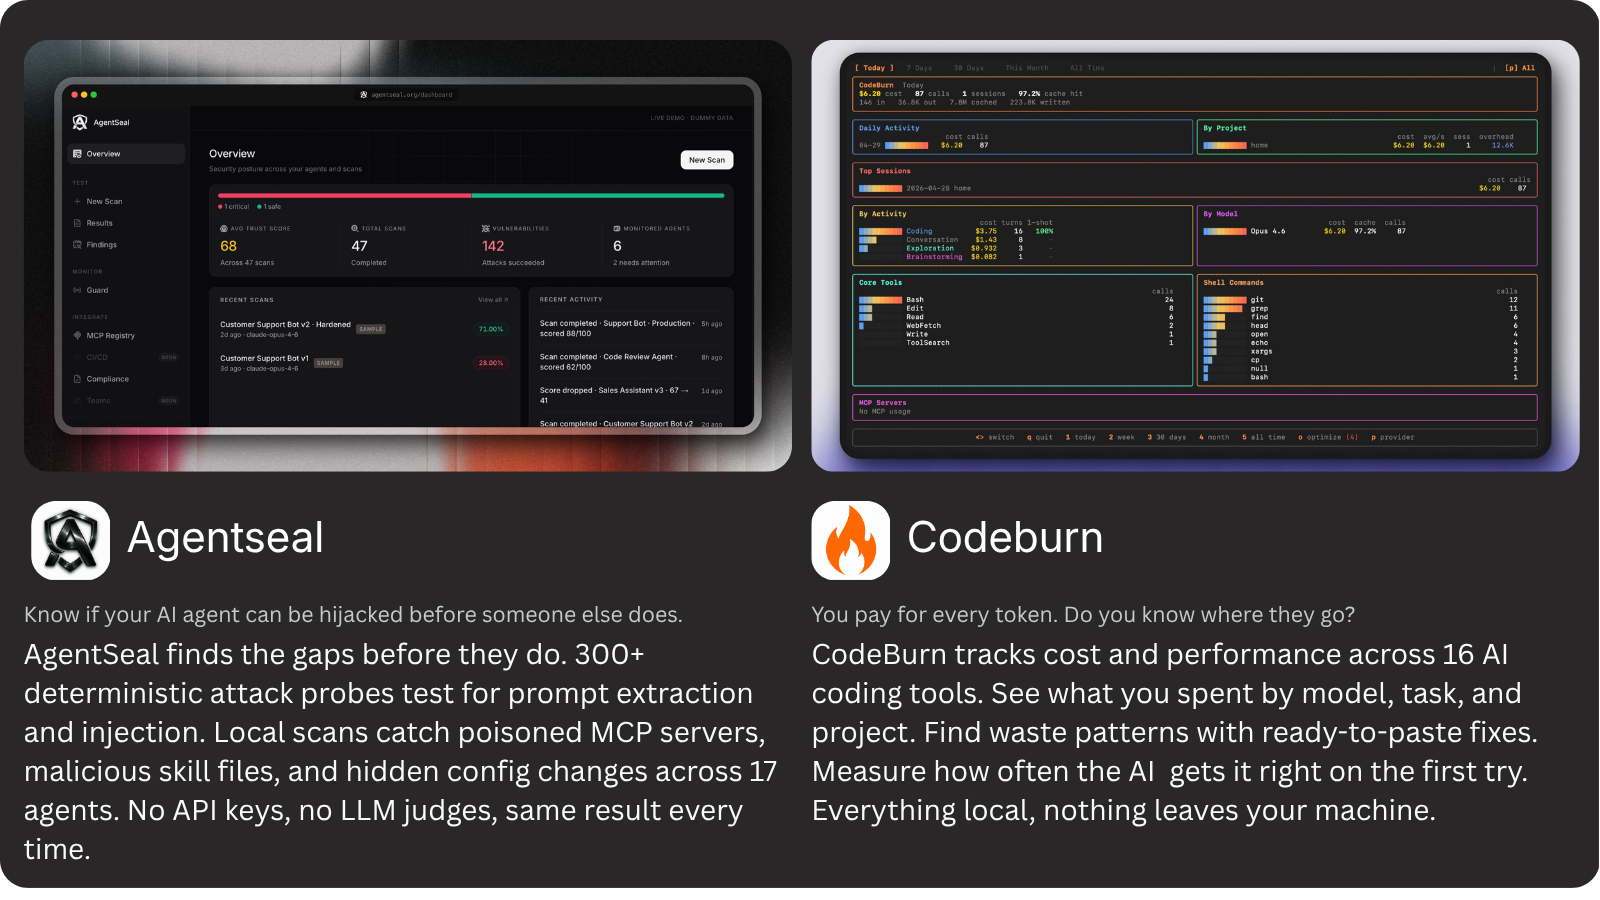
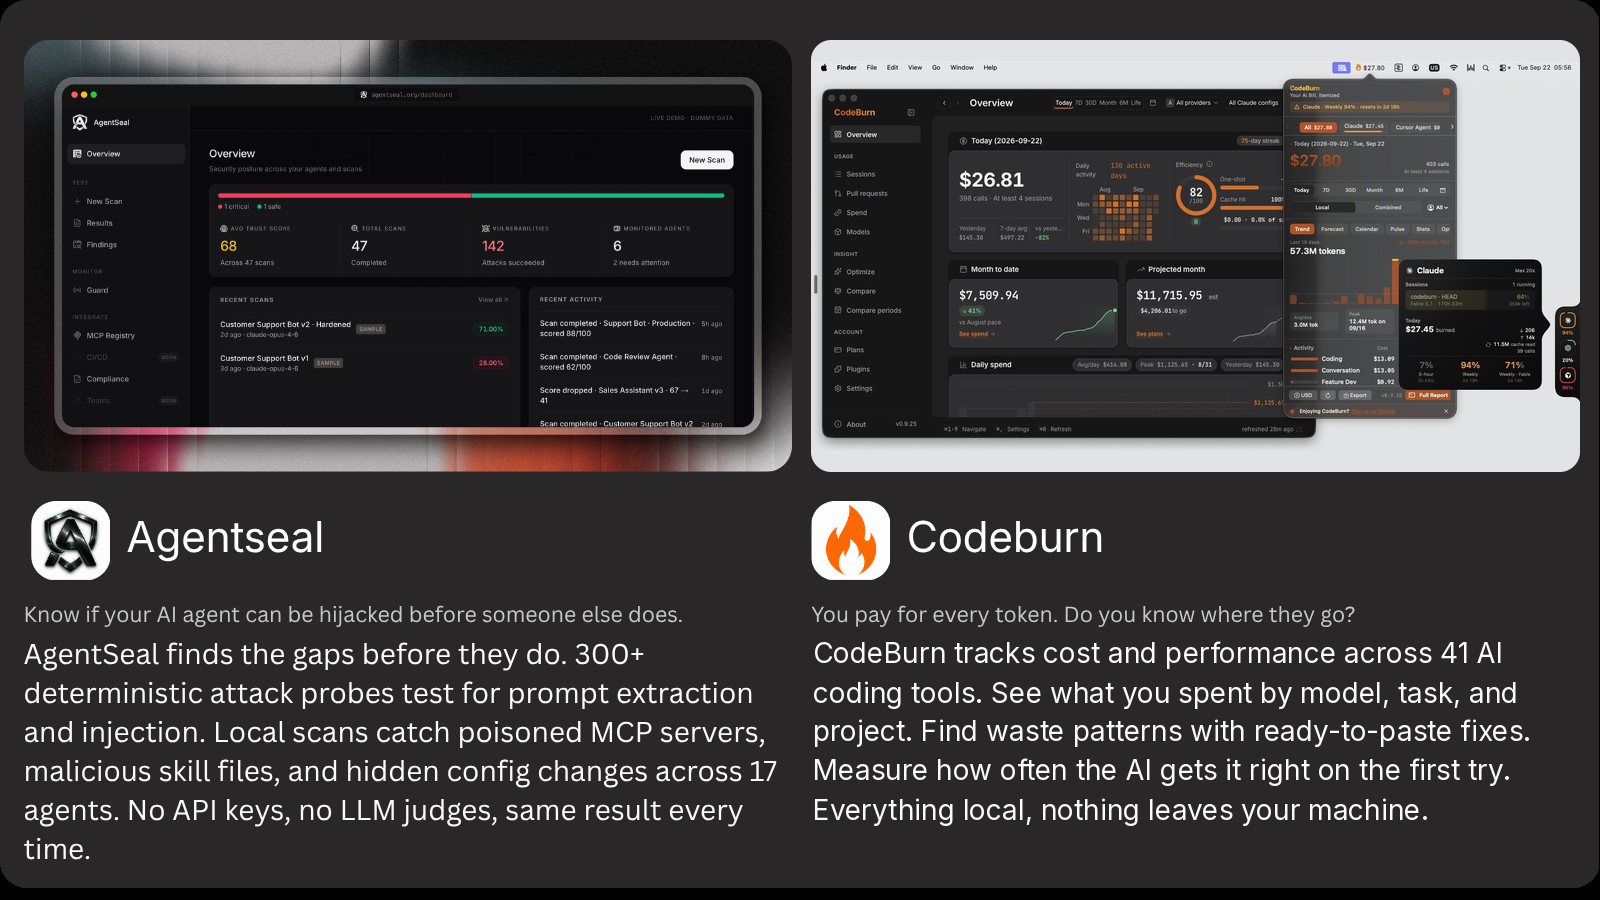
docs: show the CodeBurn app in the profile hero, link codeburn.app (#4)

diff --git a/profile/README.md b/profile/README.md
@@ -11,7 +11,7 @@
   ·
   <a href="https://agentseal.org/docs">Docs</a>
   ·
-  <a href="https://github.com/getagentseal/codeburn">CodeBurn</a>
+  <a href="https://codeburn.app">CodeBurn</a>
   ·
   <a href="https://github.com/getagentseal/agentseal">AgentSeal</a>
   ·
@@ -22,7 +22,7 @@
 
 We build open-source tools for developers who code with AI agents. Two problems kept showing up: teams have no visibility into what their AI spend actually buys, and the agents they trust run on attack surfaces nobody is testing.
 
-**[CodeBurn](https://github.com/getagentseal/codeburn)** tracks cost and performance across 30 AI tools. See what you spent by model, task, and project. Find waste patterns with ready-to-paste fixes. Measure how often the AI gets it right on the first try. Everything local, nothing leaves your machine.
+**[CodeBurn](https://codeburn.app)** tracks cost and performance across 41 AI coding tools. See what you spent by model, task, and project. Find waste patterns with ready-to-paste fixes. Measure how often the AI gets it right on the first try. Everything local, nothing leaves your machine.
 
 **[AgentSeal](https://github.com/getagentseal/agentseal)** finds security gaps before attackers do. 300+ deterministic probes test for prompt extraction and injection. Local scans catch poisoned MCP servers, malicious skill files, and hidden config changes across 17 agents. No API keys, no LLM judges, same result every time.
 
@@ -39,7 +39,7 @@ pip install agentseal           # agent security
 
 | Repo | What it does |
 |------|-------------|
-| [codeburn](https://github.com/getagentseal/codeburn) | Token usage, cost, and performance tracking for 30 AI tools |
+| [codeburn](https://github.com/getagentseal/codeburn) | Token usage, cost, and performance tracking for 41 AI coding tools |
 | [agentseal](https://github.com/getagentseal/agentseal) | Security scanner for AI agents: prompt testing, MCP analysis, skill file auditing |
 | eywa *(coming soon)* | Provenance-grounded long-term memory for AI agents: deterministic recall, source receipts, zero LLM calls on read |
 | [agentseal-mcp-intel](https://github.com/getagentseal/agentseal-mcp-intel) | MCP server intelligence and security analysis |
